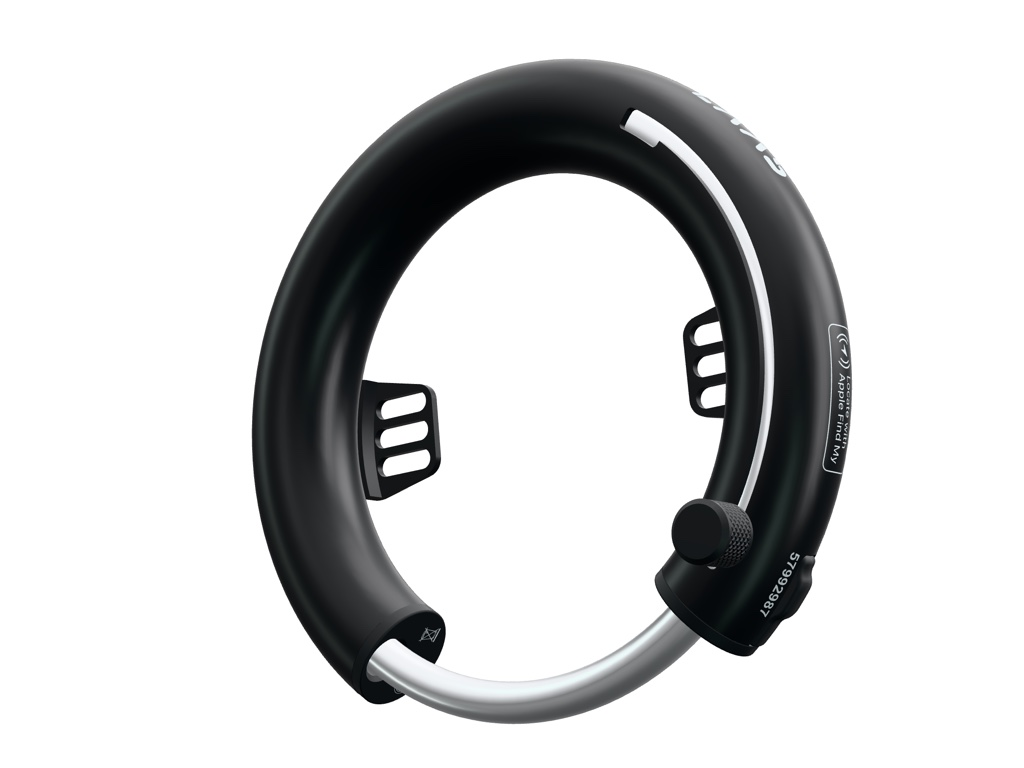
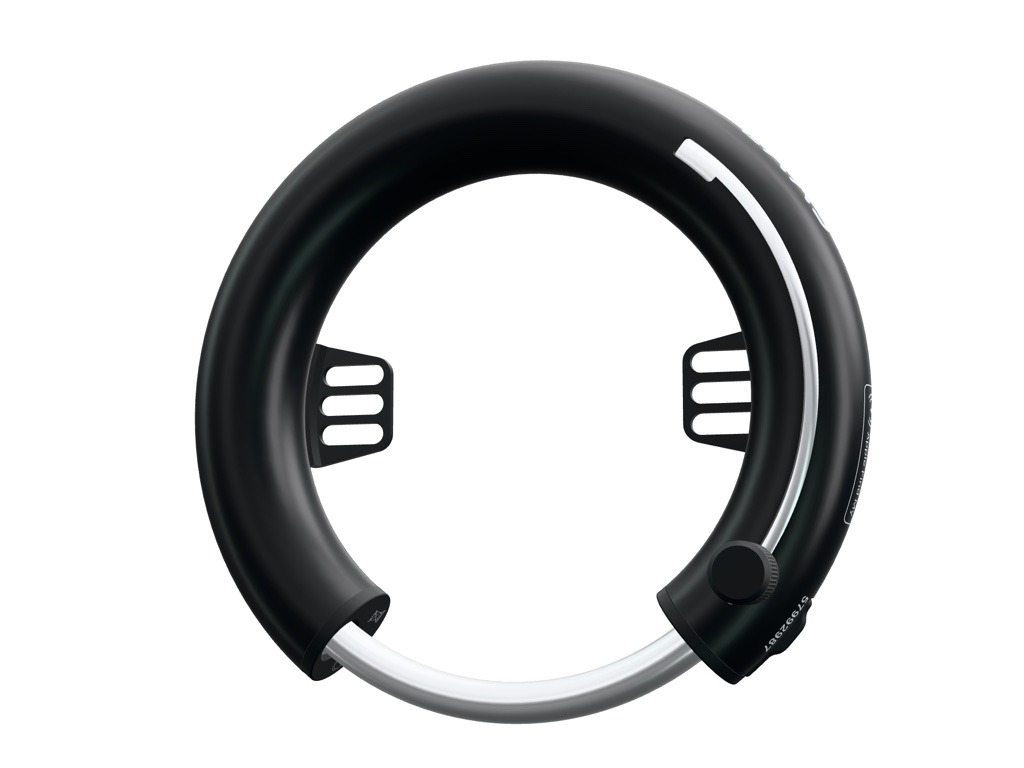
Buy page laid out as the landing page's buy chapter; straighter lock pose; front-on transparent thumbnails in cart and checkout

Changed region(s): [[0.1875, 0.0625, 0.875, 0.9375]]

diff --git a/buy.html b/buy.html
@@ -72,22 +72,25 @@
 <main id="top">
 
   <!-- the product: the real lock, in 3D, on the left (on top on a phone); title, price and the buy card beside it -->
-  <section class="pdp" id="buy" data-metal="steel" aria-labelledby="pdp-h">
+  <!-- the product, laid out as the landing page's buy chapter: the finishes as the heading, the real lock in 3D in the
+       middle with its turn buttons, the white buy card beside it -->
+  <section class="pdp pdp--v2" id="buy" data-metal="steel" aria-labelledby="pdp-h">
+    <div class="pdp__head">
+      <p class="void__index label"><b>LAAS</b> Ring-Lock</p>
+      <h1 class="heading pdp__fins" id="pdp-h"><span class="visually-hidden">The LAAS Ring-Lock in </span><span data-fin="steel">Steel.</span> <span data-fin="copper">Copper.</span> <span data-fin="black">Black.</span></h1>
+      <p class="pdp__sub">Same lock, same price, three finishes. Keyless, and <a class="link" href="https://varefakta.dk/cykellaase/" target="_blank" rel="noopener">insurance-approved in Denmark</a> (Varefakta VK 37868).</p>
+    </div>
+
     <div class="pdp__stage">
       <div class="lock3d" id="lock3d" tabindex="0" role="group" aria-roledescription="3D view" aria-label="The Ring-Lock in Steel. Drag, or use the arrow keys, to turn it.">
         <img class="lock3d__still" id="lock-still" src="images/scenes/finish-steel.webp" width="800" height="800" alt="" fetchpriority="high" decoding="async">
         <i class="lock3d__floor" aria-hidden="true"></i>
       </div>
-      <p class="lock3d__hint label" id="lock-hint" aria-hidden="true">Drag to turn</p>
+      <p class="pdp__turn"><button class="ghost turn" type="button" data-turn="-1" aria-label="Turn left"><svg viewBox="0 0 16 16" aria-hidden="true"><path d="M10 3L5 8l5 5"/></svg></button><span class="label lock3d__hint" id="lock-hint" aria-hidden="true">Drag to turn</span><button class="ghost turn" type="button" data-turn="1" aria-label="Turn right"><svg viewBox="0 0 16 16" aria-hidden="true"><path d="M6 3l5 5-5 5"/></svg></button></p>
     </div>
 
     <div class="pdp__col">
-      <h1 class="heading pdp__title" id="pdp-h">The Ring-Lock.</h1>
-      <p class="pdp__price"><strong>€129</strong><s><span class="visually-hidden">Regular price </span>€149</s><span class="label pdp__intro">Intro price until 31 Dec 2026</span></p>
-      <p class="pdp__sub">Keyless. <a class="link" href="https://varefakta.dk/cykellaase/" target="_blank" rel="noopener">Insurance-approved in Denmark</a>, Varefakta VK 37868. Fits most bikes.</p>
-
-      <!-- António's buy block (as on index.html #buy): three finish dots, the chosen one ringed and named; quantity and Buy;
-           what you are covered by; how you can pay -->
+      <!-- António's buy block, the same card as on index.html #buy -->
       <div class="buybox">
         <div class="finishes" role="radiogroup" aria-label="Finish">
           <button type="button" role="radio" data-finish="steel" aria-checked="true" style="--c:#C9CDCF"><span class="visually-hidden">Steel</span></button>
@@ -95,6 +98,7 @@
           <button type="button" role="radio" data-finish="black" aria-checked="false" style="--c:#2A2D2E"><span class="visually-hidden">Black</span></button>
           <span class="finishes__name label" id="finish-name" aria-hidden="true">Steel</span>
         </div>
+        <p class="price-line"><strong>€129</strong><s><span class="visually-hidden">Regular price </span>€149</s><span class="label">Intro price until 31 Dec 2026</span></p>
         <div class="qty-row">
           <div class="qty">
             <button type="button" data-qty="-1" aria-label="Decrease quantity">−</button>
@@ -110,7 +114,7 @@
         </ul>
         <ul class="paywall" aria-label="Accepted payment methods"><li><img src="images/icons/mobilepay-mark.svg" alt="MobilePay" width="38" height="24" loading="lazy"></li><li><img src="images/icons/applepay.svg" alt="Apple Pay" width="38" height="24" loading="lazy"></li><li><img src="images/icons/googlepay.svg" alt="Google Pay" width="38" height="24" loading="lazy"></li><li><img src="images/icons/klarna.svg" alt="Klarna" width="38" height="24" loading="lazy"></li><li><img src="images/icons/visa.svg" alt="Visa" width="38" height="24" loading="lazy"></li><li><img src="images/icons/mastercard.svg" alt="Mastercard" width="38" height="24" loading="lazy"></li></ul>
       </div>
-      <p class="fine pdp__ship">Ships in 1–2 working days. Shipping €9, free on orders over €250. Prices include VAT. No frame holes? The Flex Mount, €9.99, is in your cart, one tap away.</p>
+      <p class="fine pdp__ship">Ships in 1–2 working days. Shipping €9, free on orders over €250. Prices include VAT.</p>
     </div>
   </section>
 

diff --git a/buy.css b/buy.css
@@ -145,3 +145,39 @@ html { scroll-snap-type: none; scroll-behavior: smooth; scroll-padding-top: 96px
 .flex-ask__x::after { rotate: -45deg; }
 .flex-ask img { height: auto; aspect-ratio: 16 / 8; }
 .flex-ask button:focus:not(:focus-visible) { outline: none; }
+
+/* ------------------------------------------------------------ v2: the landing page's buy chapter */
+.pdp--v2 { grid-template-columns: minmax(220px, .85fr) minmax(0, 1.3fr) minmax(340px, 430px); column-gap: clamp(24px, 3vw, 56px); max-width: 1480px; padding-top: 112px; }
+.pdp__head .void__index { margin-bottom: 18px; }
+.pdp__fins { font-size: clamp(40px, 4.2vw, 68px); line-height: .98; }
+.pdp__fins span[data-fin] { display: block; width: max-content; transition: opacity .5s var(--ease); }
+[data-metal="steel"] .pdp__fins span[data-fin]:not([data-fin="steel"]),
+[data-metal="copper"] .pdp__fins span[data-fin]:not([data-fin="copper"]),
+[data-metal="black"] .pdp__fins span[data-fin]:not([data-fin="black"]) { opacity: .34; }
+.pdp--v2 .pdp__sub { max-width: 19em; margin-top: 20px; }
+.pdp--v2 .lock3d { height: clamp(380px, calc(100vh - 300px), 600px); }
+.pdp__turn { display: flex; align-items: center; justify-content: center; gap: 14px; margin-top: 4px; }
+.pdp__turn .turn { width: 48px; height: 48px; padding: 0; display: grid; place-items: center; border-radius: 50%; background: #FFFFFF; box-shadow: 0 1px 1px rgba(32, 47, 48, .06), 0 6px 18px -8px rgba(32, 47, 48, .3); }
+.pdp__turn .turn svg { width: 16px; height: 16px; fill: none; stroke: var(--ink); stroke-width: 1.6; stroke-linecap: round; stroke-linejoin: round; }
+.pdp__turn .lock3d__hint.is-used { opacity: .5; }
+.pdp--v2 .buybox { margin-top: 0; }
+.pdp--v2 .price-line { margin: 0; }
+@media (max-width: 1100px) and (min-width: 761px) {
+  .pdp--v2 { grid-template-columns: minmax(0, 1fr) minmax(320px, 400px); }
+  .pdp--v2 .pdp__head { grid-column: 1 / -1; margin-bottom: 12px; }
+}
+@media (max-width: 760px) {
+  .pdp--v2 { padding-top: 84px; }
+  .pdp__fins { font-size: clamp(34px, 10vw, 44px); }
+  .pdp__fins span[data-fin] { display: inline; }
+  .pdp--v2 .pdp__sub { font-size: 15px; margin-top: 12px; }
+  .pdp--v2 .lock3d { height: auto; aspect-ratio: 1 / .9; }
+  .pdp--v2 .pdp__stage { margin: 4px 0 18px; }
+}
+
+/* the lock fills its column; the turn buttons sit right under it */
+.pdp--v2 .lock3d { height: clamp(360px, calc(100vh - 330px), 540px); --ring: 76%; }
+.pdp--v2 .pdp__turn { margin-top: -18px; position: relative; z-index: 2; }
+@media (max-width: 760px) { .pdp--v2 .lock3d { --ring: 72%; } .pdp--v2 .pdp__turn { margin-top: -8px; } }
+@media (max-width: 760px) { .pdp--v2 .pdp__col { width: 100%; } .pdp--v2 .buybox { width: 100%; } }
+@media (max-width: 760px) { .pdp--v2 .lock3d { height: auto; width: 100%; aspect-ratio: 1 / .9; } }

diff --git a/buy.js b/buy.js
@@ -122,6 +122,8 @@
       if (e.key !== 'ArrowLeft' && e.key !== 'ArrowRight') return;
       e.preventDefault(); touched(); user.goal += (e.key === 'ArrowRight' ? 1 : -1) * 0.5; api.wake?.();
     });
+    // the turn buttons under the lock (as on the landing page's buy chapter)
+    $$('[data-turn]').forEach(btn => btn.addEventListener('click', () => { touched(); user.goal += +btn.dataset.turn * 0.6; api.wake?.(); }));
 
     const T = 'https://cdn.jsdelivr.net/npm/three@0.170.0/';
     Promise.all([import(T + '+esm'), import(T + 'examples/jsm/loaders/GLTFLoader.js/+esm'), import(T + 'examples/jsm/libs/meshopt_decoder.module.js/+esm')]).then(([THREE, { GLTFLoader }, { MeshoptDecoder }]) => {
@@ -243,18 +245,18 @@
         if (!user.dragging) {
           user.goal += user.vel; user.vel *= 0.93;
           if (Math.abs(user.vel) < 1e-4) user.vel = 0;
-          // untouched, it sways slowly either side of the three-quarter view (never edge-on)
-          if (user.auto) user.goal = Math.sin((now - t0) / 1000 * 0.45) * 0.75;
+          // untouched, it sways gently either side of a near-front view (as the landing page's buy chapter)
+          if (user.auto) user.goal = Math.sin((now - t0) / 1000 * 0.45) * 0.35;
         }
         user.spin = user.dragging || reduce ? user.goal : user.spin + (user.goal - user.spin) * (1 - Math.exp(-6 * dt));
         sweep *= Math.exp(-2.5 * dt);
         const time = (now - t0) / 1000;
         const bob = reduce ? 0 : Math.sin(time * 0.31) * 0.03;
-        // the landing page's buy pose: three-quarter, a little from above
-        model.group.rotation.set(-0.16 + bob, -0.62 + user.spin, 0.1, 'XYZ');
+        // the landing page's buy pose: near the front, a little from above, upright
+        model.group.rotation.set(-0.12 + bob, -0.3 + user.spin, 0, 'XYZ');
         scene.environmentRotation.y = envRot + sweep * 1.2 + (reduce ? 0 : Math.sin(time * 0.35) * 0.08);
         // the ring's diameter: about 62% of the width on a phone, a little less on a desktop
-        const px = phone() ? Math.min(W * 0.62, H * 0.74) : Math.min(W * 0.56, H * 0.66);
+        const px = phone() ? Math.min(W * 0.72, H * 0.8) : Math.min(W * 0.8, H * 0.8);
         const tan = Math.tan(THREE.MathUtils.degToRad(camera.fov / 2));
         const dist = model.radius * H / (tan * px);
         camera.position.set(0, 0, dist); camera.near = dist / 30; camera.far = dist * 6;

diff --git a/index.html b/index.html
@@ -299,7 +299,7 @@
   </section>
 
   <!-- 5 · buy -->
-  <section class="void void--product" id="buy" data-metal="steel" data-nav-section="buy" data-bg="#ECECEA" data-key='{"yaw":-0.62,"pitch":-0.16,"roll":0.1,"size":0.42,"msize":0.5,"my":-0.04,"drag":1}' aria-labelledby="h5">
+  <section class="void void--product" id="buy" data-metal="steel" data-nav-section="buy" data-bg="#ECECEA" data-key='{"yaw":-0.3,"pitch":-0.12,"roll":0,"size":0.42,"msize":0.5,"my":-0.04,"drag":1}' aria-labelledby="h5">
     <div class="void__left">
       <p class="void__index label"><b>05</b> Yours</p>
       <h2 class="heading split" id="h5">Steel. Copper. Black.</h2>
@@ -334,7 +334,7 @@
   </section>
 
   <!-- 6 · questions -->
-  <section class="void void--faq" id="faq" data-nav-section="faq" data-bg="#FFFFFF" data-key='{"yaw":-0.62,"pitch":-0.16,"size":0.42,"fade":1}' aria-labelledby="h6">
+  <section class="void void--faq" id="faq" data-nav-section="faq" data-bg="#FFFFFF" data-key='{"yaw":-0.3,"pitch":-0.12,"size":0.42,"fade":1}' aria-labelledby="h6">
     <div class="void__left">
       <p class="void__index label"><b>06</b> FAQ</p>
       <h2 class="heading split" id="h6">Questions, answered.</h2>
@@ -351,7 +351,7 @@
     </div>
   </section>
 
-  <footer class="foot" data-nav-section="faq" data-tone="dark" data-bg="#ECECEA" data-key='{"yaw":-0.62,"pitch":-0.16,"roll":0.1,"size":0.42,"msize":0.5,"my":-0.04,"fade":1}'>
+  <footer class="foot" data-nav-section="faq" data-tone="dark" data-bg="#ECECEA" data-key='{"yaw":-0.3,"pitch":-0.12,"roll":0,"size":0.42,"msize":0.5,"my":-0.04,"fade":1}'>
     <!-- after 21st.dev "Footer section 1": the mark, one row of links, the socials, a hatched band, the copyright -->
     <div class="foot2">
       <div class="foot2__top">

diff --git a/shop-v2.js b/shop-v2.js
@@ -51,7 +51,7 @@
   let secondFin = null;
   const paintSecond = () => {
     const box = $('#offer-second'); if (!box || !secondFin) return;
-    const im = $('img', box), src = 'images/scenes/finish-' + secondFin + '.webp';
+    const im = $('img', box), src = 'images/scenes/thumb-' + secondFin + '.webp';
     if (im.getAttribute('src') !== src) im.src = src;
     $$('[data-pick]', box).forEach(b => { const on = b.dataset.pick === secondFin; b.setAttribute('aria-checked', String(on)); b.tabIndex = on ? 0 : -1; });
     setText('#offer-second-fin', Object.keys(FIN).find(k => FIN[k] === secondFin));
@@ -67,7 +67,7 @@
   const lockCount = items => items.reduce((n, i) => n + (isLock(i) ? i.qty || 1 : 0), 0);
   const full = (i, items) => isLock(i) ? lockCount(items) >= MAX : i.qty >= MAX;
   const thumb = i => isFlex(i) ? 'images/flexmount.webp'
-    : FIN[i.finish] ? 'images/scenes/finish-' + FIN[i.finish] + '.webp' : (i.img || 'images/scenes/finish-steel.webp');
+    : FIN[i.finish] ? 'images/scenes/thumb-' + FIN[i.finish] + '.webp' : (i.img || 'images/scenes/thumb-steel.webp');
   const esc = s => String(s).replace(/[&<>"]/g, c => ({ '&': '&amp;', '<': '&lt;', '>': '&gt;', '"': '&quot;' }[c]));
 
   /* ---------------------------------------------------------------- paint */

diff --git a/cart-v2.html b/cart-v2.html
@@ -64,7 +64,7 @@
 
     <!-- empty: one small card, one way back -->
     <div class="item item--empty" data-empty hidden>
-      <span class="item__pic"><img src="images/scenes/finish-steel.webp" width="800" height="800" alt=""></span>
+      <span class="item__pic"><img src="images/scenes/thumb-steel.webp" width="320" height="320" alt=""></span>
       <div class="item__what">
         <p class="item__name">Nothing here yet.</p>
         <p class="item__meta">Pick a finish and it lands here.</p>
@@ -84,7 +84,7 @@
         <button class="addon__btn" type="button" data-add="flex">Add · €9.99</button>
       </div>
       <div class="addon" id="offer-second" hidden>
-        <img src="images/scenes/finish-steel.webp" width="800" height="800" alt="" decoding="async">
+        <img src="images/scenes/thumb-steel.webp" width="320" height="320" alt="" decoding="async">
         <div>
           <p><b>Free shipping</b> with a second lock.</p>
           <div class="pick" role="radiogroup" aria-label="Finish of the second lock">

diff --git a/cart-nav.js b/cart-nav.js
@@ -50,7 +50,7 @@
       card.addEventListener('pointerleave', () => { timer = setTimeout(hide, 4000); });
       addEventListener('keydown', e => { if (e.key === 'Escape') hide(); });
     }
-    card.querySelector('.added__pic').src = 'images/scenes/finish-' + finish + '.webp';
+    card.querySelector('.added__pic').src = 'images/scenes/thumb-' + finish + '.webp';
     card.querySelector('.added__h').textContent = qty ? 'Added to your cart' : 'Your cart is full';
     card.querySelector('.added__p').textContent = (qty ? `Ring-Lock, ${NAME[finish]}${qty > 1 ? ' × ' + qty : ''} · €${PRICE * qty}` : '') + (note ? (qty ? '. ' : '') + note : '');
     card.hidden = false;

diff --git a/shop-v2.css b/shop-v2.css
@@ -411,3 +411,8 @@
 /* an empty cart or checkout: the small card sits in the middle of the space above the footer */
 html.is-empty .shop-page .cart__wrap { flex: 1; width: 100%; align-content: center; padding-bottom: 96px; }
 .pick__name { letter-spacing: .08em; font-size: 10px; overflow: visible; }
+
+/* the lock thumbnails: rendered straight on, on a transparent ground, so no tile behind them */
+.item__pic, .cart-page .line__pic, .co2 .lines--ro .line__pic, .lines--ro .line__pic, .addons #offer-second img { background: none; box-shadow: none; }
+.item__pic img, .line__pic img { width: 100%; height: 100%; object-fit: contain; }
+#offer-second img { padding: 0; }

diff --git a/checkout-v2.html b/checkout-v2.html
@@ -66,7 +66,7 @@
     <h1 class="cart__h" id="co-h" tabindex="-1">Checkout <span class="cart__n" data-count>0 items</span></h1>
 
     <div class="item item--empty" data-empty hidden>
-      <span class="item__pic"><img src="images/scenes/finish-steel.webp" width="800" height="800" alt=""></span>
+      <span class="item__pic"><img src="images/scenes/thumb-steel.webp" width="320" height="320" alt=""></span>
       <div class="item__what">
         <p class="item__name">Your cart is empty.</p>
         <p class="item__meta">Pick a finish first, then come back here.</p>

diff --git a/darkroom.css b/darkroom.css
@@ -1030,3 +1030,5 @@ html.in-buy .nav__buy { display: none; }
   .foot2__band { height: 48px; }
   .foot2__legal span { font-size: 14px; }
 }
+
+.added__pic { background: none; padding: 0; }
